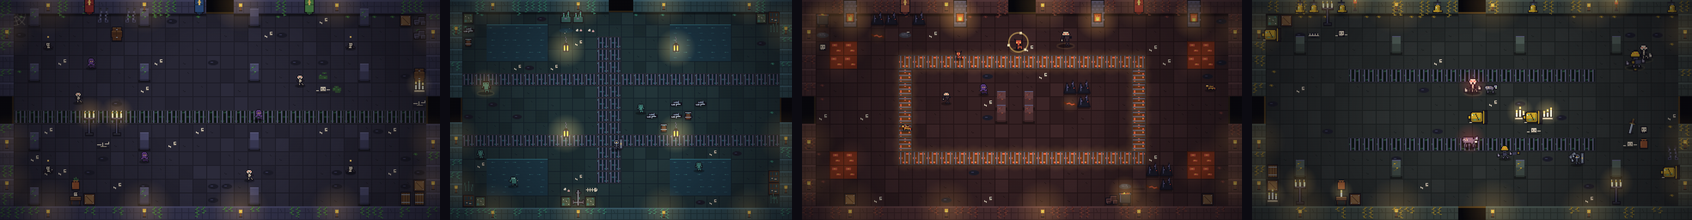
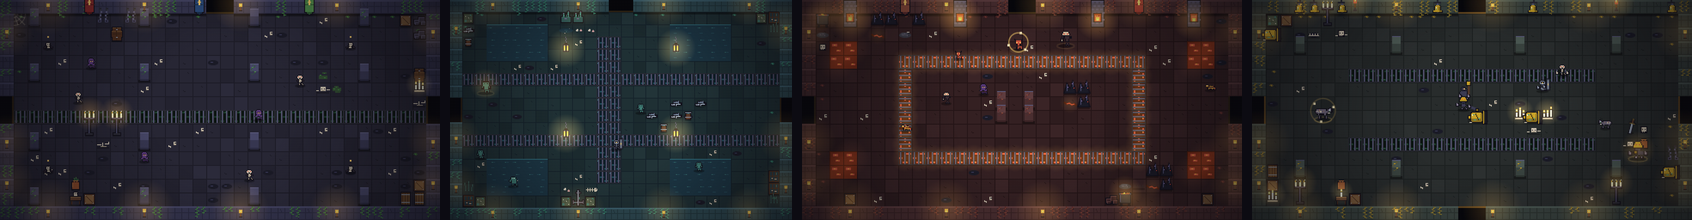
Gloomhollow build 69

diff --git a/index.html b/index.html
@@ -1302,7 +1302,7 @@ function takeItem(it){if(it.kind==='talk'){talkTo(it.d);return;}if(it.kind==='lo
   case'buff':case'relic':{const d=ITEMS[it.id];if(BUFFS[it.id])BUFFS[it.id].apply(p);addItem(it.id);banner={t:2.8,title:d.name.toUpperCase(),sub:d.desc,col:'#f4c968'};msg.t=0;SFX.relic();burst(it.x,it.y-4,18,'#f4c968');if(d.relic)stat('relics');if(it.altar){room.items=room.items.filter(x=>!x.altar);keep=true;}break;}   /* every item gets its card; a shrine gives one of its three */
   case'stairs':descend();return;
   case'key':p.keys++;showMsg('A rusted key',1.5);break;
-  case'cursed':{const c=CURSED[it.id];c.apply(p);addItem(it.id);banner={t:2.8,title:c.name.toUpperCase(),sub:'CURSED   '+c.desc,col:'#b06ac8'};msg.t=0;burst(it.x,it.y-4,16,'#b06ac8');SFX.relic();const hg=room.decor.find(d=>d.kind==='hag');if(hg)hg.talkUntil=time+2;if(it.altar){room.items=room.items.filter(x=>!x.altar);keep=true;}break;}
+  case'cursed':{const c=CURSED[it.id];c.apply(p);addItem(it.id);p.curseFx=1.5;banner={t:2.8,title:c.name.toUpperCase(),sub:'CURSED   '+c.desc,col:'#b06ac8'};msg.t=0;burst(it.x,it.y-4,16,'#b06ac8');SFX.relic();const hg=room.decor.find(d=>d.kind==='hag');if(hg)hg.talkUntil=time+2;if(it.altar){room.items=room.items.filter(x=>!x.altar);keep=true;}break;}
   case'upgrade':{const u=UPG[it.id];if(it.id==='sharp'){p.sharp++;if(run.whetWeapon!==p.weapon){run.whetWeapon=p.weapon;run.whetBought=0;}run.whetBought++;showMsg(wpn().name+' +'+p.sharp,1.8);keep=true;}else{p.inf=it.id;showMsg(wpn().name+': '+u.desc,2);}burst(it.x,it.y-4,14,'#e8a33c');SFX.hitH();break;}
   case'souls':{const n=Math.round(it.n*soulMul());souls+=n;dmgNum(it.x,it.y-10,'+'+n,'#f4c968');showMsg('+'+n+' souls',1.2);break;}
   case'camp':overlayOpen='skins';skinCursor=Math.max(0,SKIN_IDS.indexOf(save.skin));SFX.door();return;
@@ -1328,7 +1328,7 @@ function updatePlayer(dt){player.mHeldT=mHeld.l?(player.mHeldT||0)+dt:0;
  /* nearing a boss door the first time warns you who waits: a line and the boss horn */
  if(room.cleared&&!room.bossWarned)for(const d of DIRS){if(!room.doors[d.n])continue;const nb=beyond(d.n);if(!nb||nb.type!=='boss'||nb.cleared)continue;const c=doorCenter(d.n);if(Math.hypot(player.x-c.x,player.y-c.y)<30){room.bossWarned=true;const nm=ETYPES[bossType()].name;showMsg((nm.charAt(0).toUpperCase()+nm.slice(1))+' waits beyond this door',3);SFX.boss();}}
 if(player.stunT>0)player.stunT-=dt;if(player.fling){const F=player.fling;F.t-=dt;moveEnt(player,F.vx*dt,F.vy*dt);F.vx*=0.94;F.vy*=0.94;if(F.t<=0)player.fling=null;}
- const p=player;p.inv=Math.max(0,p.inv-dt);p.flash=Math.max(0,p.flash-dt);p.latchT=Math.max(0,(p.latchT||0)-dt);p.stamCd=Math.max(0,p.stamCd-dt);p.appearT=Math.max(0,(p.appearT||0)-dt);
+ const p=player;p.inv=Math.max(0,p.inv-dt);p.flash=Math.max(0,p.flash-dt);p.latchT=Math.max(0,(p.latchT||0)-dt);p.curseFx=Math.max(0,(p.curseFx||0)-dt);p.stamCd=Math.max(0,p.stamCd-dt);p.appearT=Math.max(0,(p.appearT||0)-dt);
  if(p.state!=='free'&&p.charging){p.charging=false;p.charge=0;p.chargeReady=false;}   // a roll, a hit or a swing drops the charge
  if(p.stamCd<=0&&p.state!=='roll'&&p.state!=='attack'&&!p.charging)p.stam=Math.min(p.maxStam,p.stam+dt*(p.blocking?14:34));
  let mx=(keys.KeyD?1:0)-(keys.KeyA?1:0)+virt.mx,my=(keys.KeyS?1:0)-(keys.KeyW?1:0)+virt.my;let len=Math.hypot(mx,my);
@@ -2469,7 +2469,7 @@ function drawPlayer(){
   else if(p.state==='attack'&&a){ox=p.x-Math.cos(sa)*7;oy=p.y-Math.sin(sa)*3;}   // the off hand swings back against the strike
   else if(p.state==='free'&&p.charging){ox=p.x+f*5;oy=p.y+1;}   // out front, braced
   drawHand(ox,oy,hc);}
- if(p.items.some(i=>ITEMS[i.id]&&ITEMS[i.id].cursed))drawCurseCloud(p.x,p.y-31-ib);   /* the hag's gifts hang over you */
+ if(p.curseFx>0){const k=1-p.curseFx/1.5,rise=Math.round(k*10),fade=p.curseFx<0.6?p.curseFx/0.6:1,pop=k<0.15?0.6+k/0.15*0.4:1;ctx.save();ctx.globalAlpha=fade;ctx.translate(p.x,p.y-30-ib-rise);ctx.scale(pop,pop);drawCurseCloud(0,0);ctx.restore();}   /* on taking a cursed piece a skull puffs up over your head, rises and fades: a word of warning, not a badge */
 }
 // A small dark cloud with a skull in it, bobbing and drifting a pixel or two, wisps of purple rising off it.
 function drawCurseCloud(x,y){const bx=Math.round(x+Math.sin(time*1.3)*1.5),by=Math.round(y+Math.sin(time*2.1)*1);

diff --git a/sw.js b/sw.js
@@ -1,6 +1,6 @@
 // Gloomhollow service worker — caches the game so it launches offline.
 // Bump CACHE whenever you upload a new index.html.
-const CACHE = 'gloomhollow-v68';
+const CACHE = 'gloomhollow-v69';
 const CORE = ['./', './index.html', './manifest.json',
   './icons/icon-192.png', './icons/icon-512.png', './icons/icon-512-maskable.png', './icons/icon-180.png', './icons/favicon-32.png'];
 

diff --git a/README.md b/README.md
@@ -257,7 +257,7 @@ One pool, one copy of each per run, nothing stacks. Chests and shrines hand them
 | **Stormheart** | a full charge fires a bolt |
 | **Grave Bell** | a kill staggers all near it |
 
-**Cursed.** Anything with a bite in it is marked CURSED, named in purple on the floor and in the satchel, and while you carry one a purple skull cloud hangs over your head. They turn up rarely in chests and at shrines; the hag keeps three on her carpet and sells them cheap.
+**Cursed.** Anything with a bite in it is marked CURSED, named in purple on the floor and in the satchel, and taking one puffs a purple skull over your head for a moment. They turn up rarely in chests and at shrines; the hag keeps three on her carpet and sells them cheap.
 
 | Cursed piece | Gives; takes |
 |---|---|
